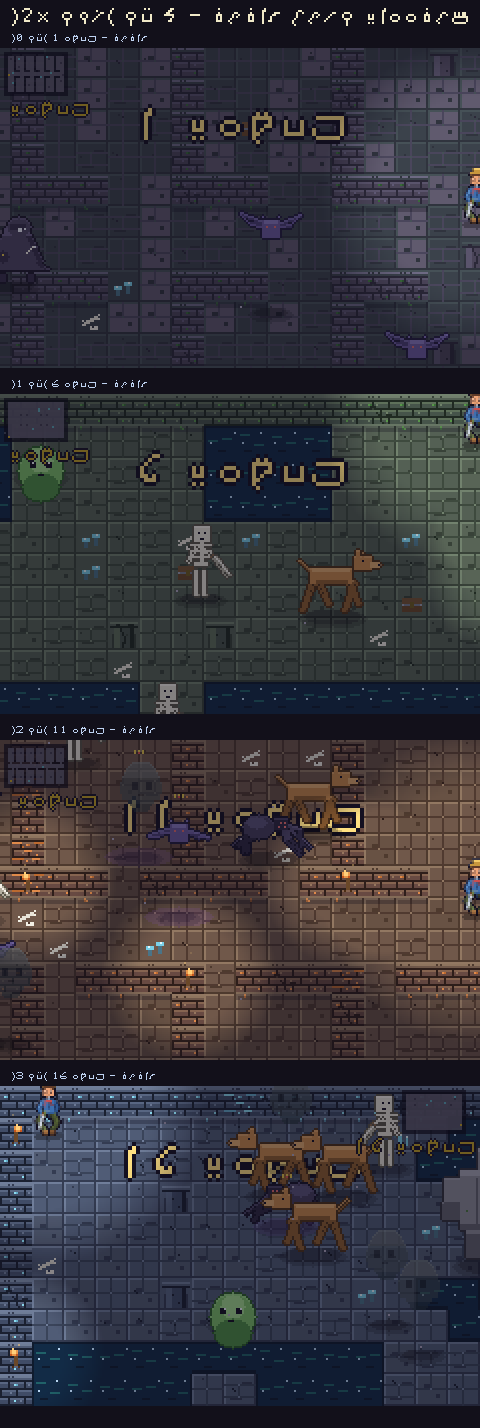
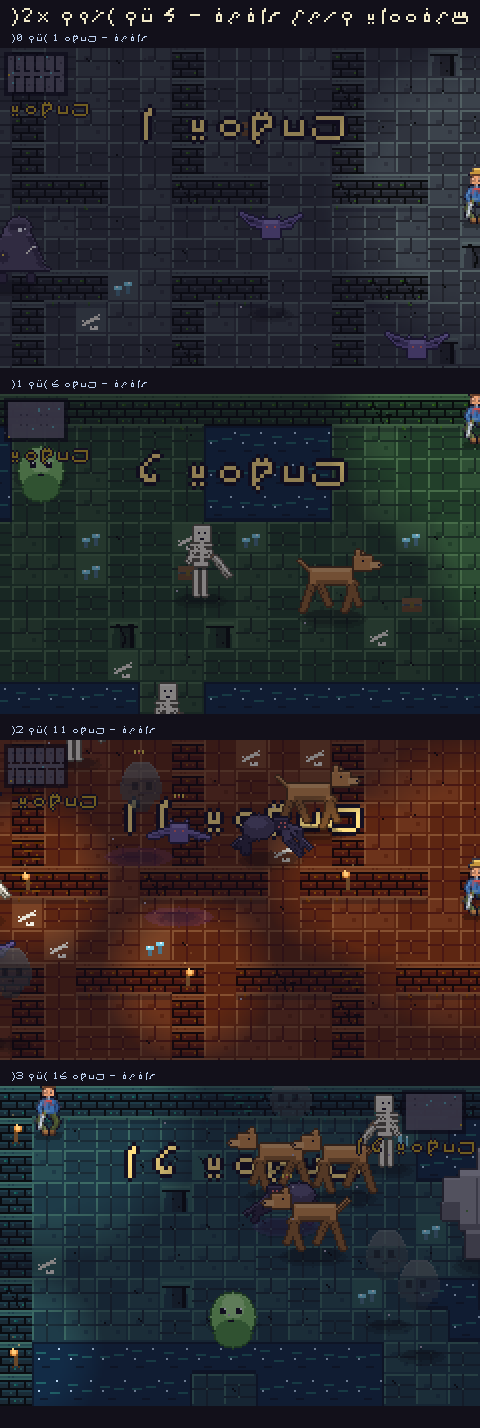
art(S1.4): dungeon themes on ramps — ΔL نما/کلاهک ۲۰ (۴/۴ تم)، M5 دانجن 94.5%

diff --git a/game.html b/game.html
@@ -827,13 +827,22 @@ const __m_art_ground = (() => {
 const KIND_ID = { grass: 0, soil: 1, path: 2, hedge: 3, water: 4, fence: 5, dfloor: 6, wall: 7, stairs: 8, gateL: 9, gateR: 10, pillar: 11, decor: 12, bush: 13, fencePost: 14 };
 const _gnum = new Array(15 * 32 * 4).fill(null); // ۴ تم دانجن (ن۳۲)
 
-// تم رنگی دانجن (ن۳۲): هر ۵ طبقه عوض میشود — تم ۰ = رنگهای اصلی (پاریتی کامل)
-const DP0 = { brick: E.brick, brickHi: E.brickHi, brickOut: E.brickOut, stone: E.stone, stoneHi: E.stoneHi, stoneSh: E.stoneSh, warm: [96, 90, 110, 255], mortar: [74, 70, 92, 255], cap: [110, 106, 132, 255], moss: [58, 106, 58, 255], mossD: [46, 86, 48, 255], stairs: E.stairs, stairsSh: E.stairsSh, glint: [96, 90, 118, 255] };
-const DTHEME = [DP0,
-  { brick: [70, 84, 74, 255], brickHi: [94, 112, 90, 255], brickOut: [32, 42, 34, 255], stone: [84, 96, 84, 255], stoneHi: [114, 130, 110, 255], stoneSh: [56, 66, 56, 255], warm: [88, 100, 86, 255], mortar: [62, 74, 62, 255], cap: [112, 126, 108, 255], moss: [88, 150, 74, 255], mossD: [58, 110, 56, 255], stairs: [96, 106, 92, 255], stairsSh: [64, 74, 62, 255], glint: [112, 130, 106, 255] }, // خزه
-  { brick: [104, 74, 66, 255], brickHi: [134, 100, 80, 255], brickOut: [46, 30, 26, 255], stone: [112, 88, 74, 255], stoneHi: [146, 120, 98, 255], stoneSh: [78, 58, 46, 255], warm: [104, 82, 68, 255], mortar: [80, 58, 48, 255], cap: [142, 116, 94, 255], moss: [224, 138, 74, 255], mossD: [188, 106, 48, 255], stairs: [128, 100, 84, 255], stairsSh: [86, 64, 52, 255], glint: [150, 118, 94, 255] }, // گدازه
-  { brick: [64, 76, 102, 255], brickHi: [88, 102, 130, 255], brickOut: [26, 32, 48, 255], stone: [80, 92, 118, 255], stoneHi: [112, 126, 154, 255], stoneSh: [52, 60, 82, 255], warm: [82, 92, 114,  255], mortar: [58, 68, 90, 255], cap: [110, 124, 150, 255], moss: [140, 220, 240, 255], mossD: [100, 170, 200, 255], stairs: [100, 112, 138, 255], stairsSh: [66, 76, 100, 255], glint: [106, 120, 148, 255] }, // یخ
-];
+// تم رنگی دانجن (ن۳۲ → S1.4): هر تم یک رمپ سنگ + رمپِ هویتِ خزه/گدازه/یخ
+// قانون کنتراست S1.4 (اندازهگیریشده): L کف ≈ ۵۲/۶۵ · نمای دیوار (brick) = ۳۸ → ΔL ۲۰ ✓ · کلاهک (stone) = ۷۸ → ΔL ۲۰ ✓
+// کلیدهای قدیمی DPAL حفظ شدهاند (brick/brickHi/brickOut/stone/stoneHi/stoneSh/warm/mortar/cap/moss/mossD/stairs/stairsSh/glint) + تازه: floorA/floorB
+const STONE_THEMES = ['stoneCool', 'stoneMoss', 'stoneForge', 'stoneIce'];   // تم ۰..۳
+const MOSS_THEMES = ['leaf', 'leaf', 'fire', 'magicCyan'];                  // هویتِ خزه/گدازه/یخ
+const DTHEME = STONE_THEMES.map((X, t) => {
+  const M = MOSS_THEMES[t];
+  return {
+    brick: rp(X, 2), brickHi: rp(X, 3), brickOut: rp(X, 0), glint: rp(X, 4),      // بدنهی دیوار (تیره) + جلای آجر
+    stone: rp(X, 5), stoneHi: rp(X, 6), stoneSh: rp(X, 3),                        // سنگِ روشن (کلاهک/ستون/دروازه/پله)
+    cap: rp(X, 4), mortar: rp(X, 2),                                              // خطِ کلاهک + درزهای کف
+    floorA: rp(X, 3), floorB: rp(X, 4), warm: rp(X, 4),                           // سنگفرش دوتُن کف
+    stairs: rp(X, 5), stairsSh: rp(X, 3),
+    moss: rp(M, 5), mossD: rp(M, 3),                                              // خزه/گدازه/یخ — هویت تم
+  };
+});
 const DPAL = (t) => DTHEME[t] || DP0;
 
 function groundSprite(kind, variant = 0, wet = false, waterFrame = 0, theme = 0) {
@@ -906,7 +915,7 @@ function groundSprite(kind, variant = 0, wet = false, waterFrame = 0, theme = 0)
       r.rect(6, 1, 4, 1, E.woodHi); r.rect(6, 13, 4, 1, E.woodSh);
     } else if (kind === 'dfloor') {
       // سنگفرش با دو تُن متناوب + درز تیره + جزئیات
-      const warm = variant % 2 ? P.warm : P.stone;
+      const warm = variant % 2 ? P.floorB : P.floorA;
       r.rect(0, 0, 16, 16, warm);
       r.rect(0, 0, 16, 1, P.stoneHi);
       r.rect(0, 0, 1, 16, P.stoneHi);
@@ -1603,8 +1612,9 @@ const __m_art_dungeon_props = (() => {
 // ذرات غبار معلق در هوا — همه بدون حالت (تصادفیِ قطعی بر اساس زمان)
 
 
+
 // مشعل: شعلهی سهلایهی نرم (سینوسی، نه موج مربعی) + جرقههای بالارونده
-const FLAME_D = [198, 84, 28, 255]; // لبهی تیرهی شعله
+const FLAME_D = rp('fire', 6).slice(); FLAME_D[3] = 255; // لبهی تیرهی شعله (رمپ آتش)
 function drawTorches(r, D, cx, cy, time) {
   for (const t of D.torches) {
     const sx = t.x * TILE - cx, sy = t.y * TILE - cy;
@@ -1630,7 +1640,7 @@ function drawTorches(r, D, cx, cy, time) {
 }
 
 // صندوق گنج: بند فلزی + قفل طلایی — استاتیک (ن۳۸: هاله/توینکل حذف)
-const IRON = [118, 124, 142, 255], IRON_HI = [158, 164, 182, 255];
+const IRON = rp('metal', 4).slice(); IRON[3] = 255; const IRON_HI = rp('metal', 6).slice(); IRON_HI[3] = 255;
 const _spC = [0, 0, 0, 0]; // اسکرچ جرقهی مشعل
 function drawChests(r, D, cx, cy, time) {
   for (const c of D.chests) {
@@ -1655,15 +1665,15 @@ function drawDrops(r, D, cx, cy) {
       const c = seedCol(d.ty);
       r.rect(px2 - 1, py2 - 1, 3, 3, [c[0], c[1], c[2], 255]);
       r.px(px2 - 1, py2 - 1, [Math.min(255, c[0] + 40), Math.min(255, c[1] + 40), Math.min(255, c[2] + 40), 255]);
-      r.px(px2, py2 - 3, [110, 180, 100, 255]); r.px(px2 + 1, py2 - 4, [140, 210, 120, 255]);
+      r.px(px2, py2 - 3, rp('leaf', 5)); r.px(px2 + 1, py2 - 4, rp('leaf', 6));
     } else if (d.kind === 'coin') { // کیسهی سکهی کوچک
-      r.rect(px2 - 2, py2 - 2, 5, 4, [170, 130, 60, 255]);
-      r.rect(px2 - 2, py2 - 3, 5, 1, [120, 90, 40, 255]);
-      r.px(px2 - 1, py2 - 1, [255, 224, 130, 255]); r.px(px2 + 1, py2, [255, 224, 130, 255]);
+      r.rect(px2 - 2, py2 - 2, 5, 4, rp('gold', 4));
+      r.rect(px2 - 2, py2 - 3, 5, 1, rp('soil', 3));
+      r.px(px2 - 1, py2 - 1, rp('gold', 6)); r.px(px2 + 1, py2, rp('gold', 6));
     } else if (d.kind === 'item') { // جعبهی درخشان با رنگ تیتر
       const t = ITEMS[d.id] ? ITEMS[d.id].tier : 1, tc = tierCol(t);
       const glow = 120 + 60 * Math.round(Math.sin(d.t * 4) + 1);
-      r.rect(px2 - 3, py2 - 3, 7, 6, [60, 50, 80, 255]);
+      r.rect(px2 - 3, py2 - 3, 7, 6, rp('stoneCool', 4));
       r.rect(px2 - 3, py2 - 3, 7, 1, [tc[0], tc[1], tc[2], 255]);
       r.rect(px2 - 3, py2 + 2, 7, 1, [tc[0], tc[1], tc[2], 255]);
       r.rect(px2 - 3, py2 - 3, 1, 6, [tc[0], tc[1], tc[2], 255]);
@@ -1674,27 +1684,27 @@ function drawDrops(r, D, cx, cy) {
       r.rect(px2 - 2, py2 - 2, 2, 2, E.heart); r.rect(px2 + 1, py2 - 2, 2, 2, E.heart);
       r.rect(px2 - 2, py2, 6, 2, E.heart); r.rect(px2 - 1, py2 + 2, 4, 1, E.heart);
       r.px(px2, py2 + 3, E.heart);
-      r.px(px2 - 1, py2 - 2, [255, 190, 205, 255]); // براقیت
+      r.px(px2 - 1, py2 - 2, [242, 239, 228, 255]); // براقیت (سفید گرم — رنگ ویژهی پالت)
     } else { // گوهر لوزی با وجهها
-      r.px(px2, py2 - 3, [230, 250, 255, 255]);
+      r.px(px2, py2 - 3, rp('magicCyan', 6));
       r.rect(px2 - 1, py2 - 2, 3, 1, E.essence); r.rect(px2 - 2, py2 - 1, 5, 1, E.essence);
       r.rect(px2 - 2, py2, 5, 1, E.essenceSh); r.rect(px2 - 1, py2 + 1, 3, 1, E.essenceSh);
       r.px(px2, py2 + 2, E.essenceSh);
-      r.px(px2 - 1, py2 - 1, [230, 250, 255, 255]); r.px(px2 + 1, py2, [170, 220, 240, 255]);
+      r.px(px2 - 1, py2 - 1, rp('magicCyan', 6)); r.px(px2 + 1, py2, rp('magicCyan', 5));
     }
   }
 }
 
 // محراب باستانی: سکوی سنگی + گوی جادویی نفسکش (بعد از استفاده خاموش)
-const _orbC = [140, 225, 255, 0], _orbD = [90, 170, 210, 0];
+const _orbC = [...rp('magicCyan', 6).slice(0, 3), 0], _orbD = [...rp('magicCyan', 4).slice(0, 3), 0];
 function drawShrines(r, D, cx, cy, time) {
   const sh = D.shrine;
   if (!sh) return;
   const sx = Math.round(sh.x - cx), sy = Math.round(sh.y - cy);
   if (sx < -24 || sy < -24 || sx > r.w + 8 || sy > r.h + 8) return;
-  r.rect(sx - 5, sy + 2, 10, 3, [74, 70, 92, 255]); // سکو
-  r.rect(sx - 5, sy + 2, 10, 1, [104, 100, 124, 255]); // لبهی روشن
-  r.rect(sx - 3, sy - 1, 6, 3, [58, 54, 74, 255]); // پایهی گوی
+  r.rect(sx - 5, sy + 2, 10, 3, rp('stoneCool', 4)); // سکو
+  r.rect(sx - 5, sy + 2, 10, 1, rp('stoneCool', 6)); // لبهی روشن
+  r.rect(sx - 3, sy - 1, 6, 3, rp('stoneCool', 3)); // پایهی گوی
   if (!sh.used) {
     const b = Math.round((Math.sin(time * 2.4) + 1)); // 0..2 — نفسکش کوانتیزه
     _orbC[3] = 190 + 25 * b;
@@ -1707,7 +1717,7 @@ function drawShrines(r, D, cx, cy, time) {
     r.px(sx + Math.round(Math.cos(oa) * 5), sy - 3 + Math.round(Math.sin(oa) * 3), _orbC);
     r.px(sx + Math.round(Math.cos(oa + 3.1) * 5), sy - 3 + Math.round(Math.sin(oa + 3.1) * 3), _orbD);
   } else {
-    r.rect(sx - 1, sy - 4, 2, 2, [90, 88, 106, 255]); // گوی خاموش
+    r.rect(sx - 1, sy - 4, 2, 2, rp('stoneCool', 5)); // گوی خاموش
   }
 }
 

diff --git a/js/art/dungeon_props.js b/js/art/dungeon_props.js
@@ -1,9 +1,10 @@
 // art/dungeon_props.js — اجزای صحنهی دانجن: مشعل (با جرقه)، صندوق گنج، قطرههای گوهر/قلب،
 // ذرات غبار معلق در هوا — همه بدون حالت (تصادفیِ قطعی بر اساس زمان)
 import { E, TILE } from './palette_env.js';
+import { rp } from './ramps.js'; // S1.4: رنگ پراپها از رمپ (مشعل/صندوق/گوهر/محراب)
 
 // مشعل: شعلهی سهلایهی نرم (سینوسی، نه موج مربعی) + جرقههای بالارونده
-const FLAME_D = [198, 84, 28, 255]; // لبهی تیرهی شعله
+const FLAME_D = rp('fire', 6).slice(); FLAME_D[3] = 255; // لبهی تیرهی شعله (رمپ آتش)
 export function drawTorches(r, D, cx, cy, time) {
   for (const t of D.torches) {
     const sx = t.x * TILE - cx, sy = t.y * TILE - cy;
@@ -29,7 +30,7 @@ export function drawTorches(r, D, cx, cy, time) {
 }
 
 // صندوق گنج: بند فلزی + قفل طلایی — استاتیک (ن۳۸: هاله/توینکل حذف)
-const IRON = [118, 124, 142, 255], IRON_HI = [158, 164, 182, 255];
+const IRON = rp('metal', 4).slice(); IRON[3] = 255; const IRON_HI = rp('metal', 6).slice(); IRON_HI[3] = 255;
 const _spC = [0, 0, 0, 0]; // اسکرچ جرقهی مشعل
 export function drawChests(r, D, cx, cy, time) {
   for (const c of D.chests) {
@@ -54,15 +55,15 @@ export function drawDrops(r, D, cx, cy) {
       const c = seedCol(d.ty);
       r.rect(px2 - 1, py2 - 1, 3, 3, [c[0], c[1], c[2], 255]);
       r.px(px2 - 1, py2 - 1, [Math.min(255, c[0] + 40), Math.min(255, c[1] + 40), Math.min(255, c[2] + 40), 255]);
-      r.px(px2, py2 - 3, [110, 180, 100, 255]); r.px(px2 + 1, py2 - 4, [140, 210, 120, 255]);
+      r.px(px2, py2 - 3, rp('leaf', 5)); r.px(px2 + 1, py2 - 4, rp('leaf', 6));
     } else if (d.kind === 'coin') { // کیسهی سکهی کوچک
-      r.rect(px2 - 2, py2 - 2, 5, 4, [170, 130, 60, 255]);
-      r.rect(px2 - 2, py2 - 3, 5, 1, [120, 90, 40, 255]);
-      r.px(px2 - 1, py2 - 1, [255, 224, 130, 255]); r.px(px2 + 1, py2, [255, 224, 130, 255]);
+      r.rect(px2 - 2, py2 - 2, 5, 4, rp('gold', 4));
+      r.rect(px2 - 2, py2 - 3, 5, 1, rp('soil', 3));
+      r.px(px2 - 1, py2 - 1, rp('gold', 6)); r.px(px2 + 1, py2, rp('gold', 6));
     } else if (d.kind === 'item') { // جعبهی درخشان با رنگ تیتر
       const t = ITEMS[d.id] ? ITEMS[d.id].tier : 1, tc = tierCol(t);
       const glow = 120 + 60 * Math.round(Math.sin(d.t * 4) + 1);
-      r.rect(px2 - 3, py2 - 3, 7, 6, [60, 50, 80, 255]);
+      r.rect(px2 - 3, py2 - 3, 7, 6, rp('stoneCool', 4));
       r.rect(px2 - 3, py2 - 3, 7, 1, [tc[0], tc[1], tc[2], 255]);
       r.rect(px2 - 3, py2 + 2, 7, 1, [tc[0], tc[1], tc[2], 255]);
       r.rect(px2 - 3, py2 - 3, 1, 6, [tc[0], tc[1], tc[2], 255]);
@@ -73,27 +74,27 @@ export function drawDrops(r, D, cx, cy) {
       r.rect(px2 - 2, py2 - 2, 2, 2, E.heart); r.rect(px2 + 1, py2 - 2, 2, 2, E.heart);
       r.rect(px2 - 2, py2, 6, 2, E.heart); r.rect(px2 - 1, py2 + 2, 4, 1, E.heart);
       r.px(px2, py2 + 3, E.heart);
-      r.px(px2 - 1, py2 - 2, [255, 190, 205, 255]); // براقیت
+      r.px(px2 - 1, py2 - 2, [242, 239, 228, 255]); // براقیت (سفید گرم — رنگ ویژهی پالت)
     } else { // گوهر لوزی با وجهها
-      r.px(px2, py2 - 3, [230, 250, 255, 255]);
+      r.px(px2, py2 - 3, rp('magicCyan', 6));
       r.rect(px2 - 1, py2 - 2, 3, 1, E.essence); r.rect(px2 - 2, py2 - 1, 5, 1, E.essence);
       r.rect(px2 - 2, py2, 5, 1, E.essenceSh); r.rect(px2 - 1, py2 + 1, 3, 1, E.essenceSh);
       r.px(px2, py2 + 2, E.essenceSh);
-      r.px(px2 - 1, py2 - 1, [230, 250, 255, 255]); r.px(px2 + 1, py2, [170, 220, 240, 255]);
+      r.px(px2 - 1, py2 - 1, rp('magicCyan', 6)); r.px(px2 + 1, py2, rp('magicCyan', 5));
     }
   }
 }
 
 // محراب باستانی: سکوی سنگی + گوی جادویی نفسکش (بعد از استفاده خاموش)
-const _orbC = [140, 225, 255, 0], _orbD = [90, 170, 210, 0];
+const _orbC = [...rp('magicCyan', 6).slice(0, 3), 0], _orbD = [...rp('magicCyan', 4).slice(0, 3), 0];
 export function drawShrines(r, D, cx, cy, time) {
   const sh = D.shrine;
   if (!sh) return;
   const sx = Math.round(sh.x - cx), sy = Math.round(sh.y - cy);
   if (sx < -24 || sy < -24 || sx > r.w + 8 || sy > r.h + 8) return;
-  r.rect(sx - 5, sy + 2, 10, 3, [74, 70, 92, 255]); // سکو
-  r.rect(sx - 5, sy + 2, 10, 1, [104, 100, 124, 255]); // لبهی روشن
-  r.rect(sx - 3, sy - 1, 6, 3, [58, 54, 74, 255]); // پایهی گوی
+  r.rect(sx - 5, sy + 2, 10, 3, rp('stoneCool', 4)); // سکو
+  r.rect(sx - 5, sy + 2, 10, 1, rp('stoneCool', 6)); // لبهی روشن
+  r.rect(sx - 3, sy - 1, 6, 3, rp('stoneCool', 3)); // پایهی گوی
   if (!sh.used) {
     const b = Math.round((Math.sin(time * 2.4) + 1)); // 0..2 — نفسکش کوانتیزه
     _orbC[3] = 190 + 25 * b;
@@ -106,6 +107,6 @@ export function drawShrines(r, D, cx, cy, time) {
     r.px(sx + Math.round(Math.cos(oa) * 5), sy - 3 + Math.round(Math.sin(oa) * 3), _orbC);
     r.px(sx + Math.round(Math.cos(oa + 3.1) * 5), sy - 3 + Math.round(Math.sin(oa + 3.1) * 3), _orbD);
   } else {
-    r.rect(sx - 1, sy - 4, 2, 2, [90, 88, 106, 255]); // گوی خاموش
+    r.rect(sx - 1, sy - 4, 2, 2, rp('stoneCool', 5)); // گوی خاموش
   }
 }

diff --git a/js/art/ground.js b/js/art/ground.js
@@ -6,13 +6,22 @@ import { rp } from './ramps.js';
 const KIND_ID = { grass: 0, soil: 1, path: 2, hedge: 3, water: 4, fence: 5, dfloor: 6, wall: 7, stairs: 8, gateL: 9, gateR: 10, pillar: 11, decor: 12, bush: 13, fencePost: 14 };
 const _gnum = new Array(15 * 32 * 4).fill(null); // ۴ تم دانجن (ن۳۲)
 
-// تم رنگی دانجن (ن۳۲): هر ۵ طبقه عوض میشود — تم ۰ = رنگهای اصلی (پاریتی کامل)
-const DP0 = { brick: E.brick, brickHi: E.brickHi, brickOut: E.brickOut, stone: E.stone, stoneHi: E.stoneHi, stoneSh: E.stoneSh, warm: [96, 90, 110, 255], mortar: [74, 70, 92, 255], cap: [110, 106, 132, 255], moss: [58, 106, 58, 255], mossD: [46, 86, 48, 255], stairs: E.stairs, stairsSh: E.stairsSh, glint: [96, 90, 118, 255] };
-const DTHEME = [DP0,
-  { brick: [70, 84, 74, 255], brickHi: [94, 112, 90, 255], brickOut: [32, 42, 34, 255], stone: [84, 96, 84, 255], stoneHi: [114, 130, 110, 255], stoneSh: [56, 66, 56, 255], warm: [88, 100, 86, 255], mortar: [62, 74, 62, 255], cap: [112, 126, 108, 255], moss: [88, 150, 74, 255], mossD: [58, 110, 56, 255], stairs: [96, 106, 92, 255], stairsSh: [64, 74, 62, 255], glint: [112, 130, 106, 255] }, // خزه
-  { brick: [104, 74, 66, 255], brickHi: [134, 100, 80, 255], brickOut: [46, 30, 26, 255], stone: [112, 88, 74, 255], stoneHi: [146, 120, 98, 255], stoneSh: [78, 58, 46, 255], warm: [104, 82, 68, 255], mortar: [80, 58, 48, 255], cap: [142, 116, 94, 255], moss: [224, 138, 74, 255], mossD: [188, 106, 48, 255], stairs: [128, 100, 84, 255], stairsSh: [86, 64, 52, 255], glint: [150, 118, 94, 255] }, // گدازه
-  { brick: [64, 76, 102, 255], brickHi: [88, 102, 130, 255], brickOut: [26, 32, 48, 255], stone: [80, 92, 118, 255], stoneHi: [112, 126, 154, 255], stoneSh: [52, 60, 82, 255], warm: [82, 92, 114,  255], mortar: [58, 68, 90, 255], cap: [110, 124, 150, 255], moss: [140, 220, 240, 255], mossD: [100, 170, 200, 255], stairs: [100, 112, 138, 255], stairsSh: [66, 76, 100, 255], glint: [106, 120, 148, 255] }, // یخ
-];
+// تم رنگی دانجن (ن۳۲ → S1.4): هر تم یک رمپ سنگ + رمپِ هویتِ خزه/گدازه/یخ
+// قانون کنتراست S1.4 (اندازهگیریشده): L کف ≈ ۵۲/۶۵ · نمای دیوار (brick) = ۳۸ → ΔL ۲۰ ✓ · کلاهک (stone) = ۷۸ → ΔL ۲۰ ✓
+// کلیدهای قدیمی DPAL حفظ شدهاند (brick/brickHi/brickOut/stone/stoneHi/stoneSh/warm/mortar/cap/moss/mossD/stairs/stairsSh/glint) + تازه: floorA/floorB
+const STONE_THEMES = ['stoneCool', 'stoneMoss', 'stoneForge', 'stoneIce'];   // تم ۰..۳
+const MOSS_THEMES = ['leaf', 'leaf', 'fire', 'magicCyan'];                  // هویتِ خزه/گدازه/یخ
+const DTHEME = STONE_THEMES.map((X, t) => {
+  const M = MOSS_THEMES[t];
+  return {
+    brick: rp(X, 2), brickHi: rp(X, 3), brickOut: rp(X, 0), glint: rp(X, 4),      // بدنهی دیوار (تیره) + جلای آجر
+    stone: rp(X, 5), stoneHi: rp(X, 6), stoneSh: rp(X, 3),                        // سنگِ روشن (کلاهک/ستون/دروازه/پله)
+    cap: rp(X, 4), mortar: rp(X, 2),                                              // خطِ کلاهک + درزهای کف
+    floorA: rp(X, 3), floorB: rp(X, 4), warm: rp(X, 4),                           // سنگفرش دوتُن کف
+    stairs: rp(X, 5), stairsSh: rp(X, 3),
+    moss: rp(M, 5), mossD: rp(M, 3),                                              // خزه/گدازه/یخ — هویت تم
+  };
+});
 export const DPAL = (t) => DTHEME[t] || DP0;
 
 export function groundSprite(kind, variant = 0, wet = false, waterFrame = 0, theme = 0) {
@@ -85,7 +94,7 @@ export function groundSprite(kind, variant = 0, wet = false, waterFrame = 0, the
       r.rect(6, 1, 4, 1, E.woodHi); r.rect(6, 13, 4, 1, E.woodSh);
     } else if (kind === 'dfloor') {
       // سنگفرش با دو تُن متناوب + درز تیره + جزئیات
-      const warm = variant % 2 ? P.warm : P.stone;
+      const warm = variant % 2 ? P.floorB : P.floorA;
       r.rect(0, 0, 16, 16, warm);
       r.rect(0, 0, 16, 1, P.stoneHi);
       r.rect(0, 0, 1, 16, P.stoneHi);

diff --git a/MEMORY.md b/MEMORY.md
@@ -1,7 +1,7 @@
 # 🧠 MEMORY — بازی «مزرعه و دانجن»
 
 > حافظهی عامل: **نقشهی فایلها (دقیق/per-file)** + وضعیت خطی + اعداد + درسها + قواعد کاربر.
-> آخرین بهروزرسانی: 2026-10-08 (نوبت ۵۶ — S1.3 ✅ تایل مزرعه ← رمپ؛ نشست بعدی S1.4).
+> آخرین بهروزرسانی: 2026-10-08 (نوبت ۵۷ — S1.4 ✅ تمهای دانجن ← رمپ؛ نشست بعدی S1.5a).
 > **رودمپ فعال: `ROADMAP.md` (۵۹ نشست، ۹ فاز) — اول §«🗺 رودمپ آرت v2» همین فایل را بخوان.**
 
 ## 🚨 اول هر نوبت
@@ -45,12 +45,13 @@ farm-dungeon/   (کل ورکاسپیس ۲٫۵MB — بیرون فقط uploads
 ```
 
 ## ✅ وضعیت (هر نوبت یک خط — جزئیات در شیت/اسکریپت همان نوبت)
+- **ن۵۷: S1.4 ✅ دانجن ۴ تم ← رمپ** — DTHEME از `stoneCool/stoneMoss/stoneForge/stoneIce` + هویت `leaf/leaf/fire/magicCyan`؛ کلیدهای DPAL حفظ + **`floorA/floorB` تازه** (کف دوتُن ۵۲/۶۵؛ ریشهی باگ: کف و کلاهک هر دو P.stone بودند → ΔL≈۲)؛ **قوانین ΔL ۴/۴ تم ✓**: نما ۳۸↔کف ۵۸ = ۲۰ · کلاهک ۷۸ ↔ کف = ۲۰ · stoneHi=۹۲ لبه؛ تایلهای هر تم یکتا ۱۹–۲۱ (M5 ۹۸٫۷٪)؛ M5 دانجن صحنه ۷۰٫۳→۹۴٫۵٪ (تم گدازه/یخ ۷۶–۸۴ چون تورچ/گوهر روشن)؛ ۱۳ رنگ هاردکد دungeon_props → رمپ؛ **کف ۸۸→۵۸ تیرهتر شد → M1 موقت ۹٫۶→۶٫۶ (bat=۱۸٫۴)** — بازگشت طبق رودمپ در S1.5a/b؛ run_all سبز؛ shیت/ref بازتولید · نشست بعدی: S1.5a
 - **ن۵۶: S1.3 ✅ تایلهای مزرعه ← رمپ** — `palette_env.js`: کلیدهای E حفظ، ۵۱ کلید از EMAP رمپمحور (چمن[4]/خاک[3] عمداً همپله نه) + سفید گرم ویژه؛ `ground.js`: ۷ هاردکد دروازه → ink/clothPurple/magicCyan[6]؛ `farm_decor.js`: سنگریزه→dust[6]/[3]، اسپارکل طلایی→gold[6]; **ΔL: چمن↔خاک ۱۳٫۴ ✓ · خاک↔راه ۱۳٫۱ ✓ · آب↔چمن ۲۷٫۲ ✓ · محصول↔خاک ۲۶٫۱–۲۶٫۳ (۶/۶) ✓** (سنجهی محصول = رنگ هویتی میوه vs خاک)؛ **M5: مزرعه ۱۰٫۵→۹۶٪ ✓ · محصولات ۲٫۲→۱۰۰٪ ✓ · دانجن ۴۵٫۲→۷۰٫۳ (بونوس E مشترک)**؛ رنگ یکتای ۴بیتی: زمین ۱۶→۱۵، صحنه ۱۴۸→۱۴۷ (سقف=قهرمان ۸۳ رنگ → S1.6 ≤۲۸؛ پس شرط ≤۷۰ صحنه در S1.6 کامل میشود)؛ run_all سبز (۱۱+۱۵+۲۷)؛ شیت/ref بازتولید شد · نشست بعدی: S1.4 (تمهای دانجن)
 - **ن۵۵: S1.2 ✅ پالت مستر + M5** — `art/palette_master.js`: ۹۶ رنگ (سقف ✓) ساخت قطعی در بارگذاری (FPS+کش افزایشی → Lloyd×۲۴ → refine؛ ۲۶ms)؛ پوشش **همهی ۱۷۹ رنگ منبع در ΔE≤۵٫۸۰<۶**؛ ۴ رنگ ویژه (سفید گرم/سیاه جوهری/قرمز خون/سبز افکت) مرکز دقیق شدند؛ API `inPM/nearestPM/PALETTE_MASTER/PM_SIZE/PM_COVER`؛ ثبت در BASE؛ M5 در audit فعال (گزارش ۵ گروه + ۵ رنگ پرتکرار خارج)؛ **پایهی M5 = ۲٫۲٪** (مزرعه ۱۰٫۵ · دانجن ۴۵٫۲ · قهرمان ۳۰٫۱ · موب ۲۹ · محصول ۲٫۲) — امتیاز سنجهمحور پایه با M5 واقعی: **۰٫۹/۱۰**؛ baseline.json بازتولید شد · نشست بعدی: S1.3
 - **ن۵۴: S1.1 ✅ `art/ramps.js`** — منبع واحد رمپها (فقط تعریف؛ رندر دستنخورده): `makeRamp({h,s,l0,l1,hShadow,hLight,sPeak})` = ۷ پله L ۱۲→۹۲ با هیو-شیفت سایه→بنفش(۲۶۸°)/نور→زرد(۵۲°)، اشباع اوجدار و افتِ سایه؛ ۲۵ رمپ پایه + ۱۴ همنام (bark/wood/hair/furBrown→soil · path→dust · clothCream/furWhite→bone · furGrey→metal · magicPurple→clothPurple · brick0..3/brick→stone*) = **۳۹ نام**؛ `rp/rpHex/rampL/RAMP_NAMES/RAMP_BASE_NAMES`؛ `sheet.mjs ramps` → `shots/sheet_ramps.png` (شیت ۳۹ رمپ برای بازبینی)؛ سنجهها: ΔL همه ∈ [۷،۱۷] صعودی ✓ · یکتای خام ۱۷۴ / **کوانتیزه ۴بیتی ۱۰۹ ≤ ۱۱۰** ✓ · فایل ۶۹ خط؛ ثبت در BASE (بعد از raster)؛ بوت ۱۱/۱۱ · run_all سبز · نشست بعدی: S1.2
 - **ن۵۳: S0.4 ✅ شیتساز + صحنههای مرجع + بنچ** — `tools/sheet.mjs <tiles|mobs|farm|dungeon|all>` (زوم ×۲/۴ + برچسب font2 → `shots/sheet_*.png`) · ۷ صحنهی مرجع قطعی `ref_farm_{day,rain,night}.png` + `ref_dungeon_f{01,06,11,16}.png` (مالکیت ref از art_audit به sheet منتقل شد) · `tools/bench.mjs` گسترش: میانهی ۳ اجرا → **`tools/baseline.json`: مزرعه ۰٫۵۹ms · دانجن ۱٫۲۰ms** (پایه ۰٫۶۰/~۱٫۳ ✓ M11 پاس) · `tiles43_sheet.mjs`+`mobs44_sheet.mjs` حذف شدند · run_all سبز · نشست بعدی: **S1.1** (`art/ramps.js` — تنها ماژول جدید P1)
 - **ن۵۲: S0.3 ✅ art_audit پایدار** — `tools/art_audit.mjs` (M1–M10 عددی + شیت + JSON؛ قطعی=random استاب؛ ۰٫۳ث) + `shots/audit_baseline.json` + `shots/art_audit.png` + ۴ صحنهی مرجع `ref_*.png`؛ **اسکرینشاتهای قدیمی (۶ فایل) بهخواست کاربر حذف شدند**؛ CI: `.github/workflows/ci.yml` (هر push: run_all + art_audit + آپلود آرتیفکت)؛ پایهی سنجهمحور **۲/۱۱ = ۱٫۸/۱۰** — M1 ΔL=۹٫۶ (bat بدترین) · M2=۲۲ · M3 قهرمان ۸۳ رنگ/موب ۵–۹ · M4=۱ باند · M5=۹۷٫۴٪ · M6=۰٫۵۹/۰٫۵۷ · M7=۴۶٫۲٪/۰٫۷٪ · M8=۰/۰ · M9 idle-min=۰٪ (golem یخزده)، حمله ۱۹٫۸/۱۹٫۱٪ · M10=۷–۱۳px×۴؛ همخوانی با ن۴۸: قهرمان ۸۳↔۸۲، موب ۵–۹↔۵–۹، محصول ۷–۱۳↔۷–۱۳، حمله ۱۹٫۸/۱۹٫۱↔۱۵/۱۹، bat بدترین↔bat · نشست بعدی: S0.4
-- **ن۵۱: S0.1 ✅ + S0.2 ✅** — مخزن با توکن کلون شد، `farm-dungeon-roadmap.zip` آنزیپ و ساختار پروژه در ریشهی ریپو (`farm-dungeon/`) قرار گرفت؛ zip حذف؛ `secret_guard: clean`؛ پوش اول `3f61d4c` (local==remote)؛ تگ `art-baseline` لوکال+ریموت · **S0.2**: `tools/setup_tests.sh` + `tools/boot_check.mjs` (۱۰ سناریو jsdom) + `tools/run_all.sh` → `ALL GREEN` در ۲۲ث (boot ۱۰/۱۰ در ۱۹٬۲ث · render5 ۱۵/۱۵ · render6 ۲۷/۲۷) و **بیلد بایتبرابر با game.html موجود (Parity)** · نشست بعدی: S1.4 (تمهای دانجن ← رمپ)
+- **ن۵۱: S0.1 ✅ + S0.2 ✅** — مخزن با توکن کلون شد، `farm-dungeon-roadmap.zip` آنزیپ و ساختار پروژه در ریشهی ریپو (`farm-dungeon/`) قرار گرفت؛ zip حذف؛ `secret_guard: clean`؛ پوش اول `3f61d4c` (local==remote)؛ تگ `art-baseline` لوکال+ریموت · **S0.2**: `tools/setup_tests.sh` + `tools/boot_check.mjs` (۱۰ سناریو jsdom) + `tools/run_all.sh` → `ALL GREEN` در ۲۲ث (boot ۱۰/۱۰ در ۱۹٬۲ث · render5 ۱۵/۱۵ · render6 ۲۷/۲۷) و **بیلد بایتبرابر با game.html موجود (Parity)** · نشست بعدی: S1.5a (موبهای کلاسیک)
 - **ن۵۰: رودمپ آرت v2 تدوین شد** (۵۹ نشست/۹ فاز: P0 زیرساخت · P1 رنگ · P2 تایل مزرعه · P3 تایل دانجن · P4 نور · P5 جزئیات مزرعه · P6 موجودات · P7 UI · P8 پولیش) — کد بازی دستنخورده، فقط `.gitignore` + `tools/push.sh` + `tools/secret_guard.sh` + ROADMAP/roadmap اضافه شد · نشست بعدی: S0.3 · هدف امتیاز آرت ۵٫۵ → ≥ ۸٫۵ (Scoreboard در ROADMAP.md)
 - قابل بازی: game.html روی :8080 · نوبت جاری: **ن۴۸ آرت-ممیزی سنجهمحور ~۵٫۵/۱۰ سختگیرانه** — کمبودها: **P1 خوانایی** bat ΔL=۳ و فقط ۱۵px، bandit ΔL=۵، spider ۲۱، ghost ۱۰ (نیمهعمدی)، outline اسکلت/کماندار L~۸۶=حاشیه نه outline · **P2 سبک** پالت قهرمان ۸۲ رنگ↔موبها ۵-۹ (ژاکارد ۰٫۰۱۷)، outline غیریکدست (انحراف ۴۲)، اسکلت/کماندار ۲ باند سایه، صفر بافت/dither (فاصلهی اصلی با استاردیو) · **P3** محصول ۴ مرحله (استاردیو ۵) و رسیده ۷-۱۳px، حملهی اسکلت ۱۵٪/کماندار ۱۹٪ کمخوانا، idle hare/golem/boss ۱۱-۱۴٪ یخزده، اسکلت ۲٫۳t>قهرمان ۱٫۸t، گلیف ص/ض/ط/ظ ۸px در شبکهی ۷ · قوتها: خط لولهی منظم، انیمیشن ۴حالته، فونت ۹۵ گلیف، باس≠گولم، صحنه ۱۰۸-۱۷۰ رنگ · سنجهها: shots/art48_review.png (اسکریپت اندازهگیری /tmp/artaudit48.mjs — سنجهها: پالت کوانتیزه >>۴، خوشهی روشنایی ≥۸٪، ΔL در برابر کفِ L=۷۲، ژاکارد، diffRatio)
 - ن۴۹: **باگهای ظاهری + پولیش** — (۱) تایلهای fence/fencePost شفاف بودند (بدون چمن زیرشان → سیاهی/ردّ فریم قبل روی بوم) → چمن زیرشان در farm_render · (۲) خاکراه: تایلهای «نانمانند» جدا → تایل پر + حاشیهی دندانهای per-همسایه `drawPathEdge` (farm_decor) + سنگریزهی پراکنده · (۳) دروازهی ۲×۲ دو در روی هم بود → طاق یکپارچه (variant 0 سردر / 1 آستانه) · (۴) گندم رسیده شبیه «میز» → سه سنبلهی طلایی با ریشک · (۵) فونت font2: حروف کوچک لاتین «؟» میشدند (Floor→F????) → نگاشت به بزرگ؛ نیمفاصلهی U+200C «؟» رسم میشد → حذف؛ ارقام داخل جملهی فارسی برعکس بودند (۱۲۳→۳۲۱) → bidi ردیفهای LTR؛ alias آ/أ/ي/ك/٪/—/→ و گلیف ( ) = ·؛ ۳ شبیه «؟» بود → سهقوسی · بیلد+بوت jsdom صفر خطا · شفافیت: صفر پیکسل alpha=0 در مزرعه و ۵ طبقهی دانجن
@@ -68,7 +69,7 @@ farm-dungeon/   (کل ورکاسپیس ۲٫۵MB — بیرون فقط uploads
 - باگ باز: — (فهرست ن۴۸ = بهبود آرت، نه باگ) | داستان/NPC عمداً نیست
 
 ## 🗺 رودمپ آرت v2 (از ن۵۰)
-- **منبع حقیقت پیشرفت**: چکباکسهای `ROADMAP.md`؛ جزئیات/پذیرش هر نشست در `roadmap/P?.md`. **نشست بعدی: S1.4** (دانجن: ۴ تم ← رمپ).
+- **منبع حقیقت پیشرفت**: چکباکسهای `ROADMAP.md`؛ جزئیات/پذیرش هر نشست در `roadmap/P?.md`. **نشست بعدی: S1.5a** (۷ موب کلاسیک ← رمپ).
 - **ترتیب فازها**: P0 زیرساخت/اندازهگیری → P1 رنگ و رمپها (بزرگترین جهش) → P2 تایل مزرعه → P3 تایل دانجن → P4 نور/سایه → P5 جزئیات مزرعه → P6 موجودات → P7 UI/آیکون/فونت → P8 پولیش. ایستهای بازبینی کاربر 🛑: R1 (بعد P1)، R2 (بعد P3)، R3 (بعد P5)، R4 (پایان).
 - **پروتکل نشست** (کوتاه): MEMORY + فایل فاز را بخوان → اجرا (≤ ۱ ماژول جدید + ≤ ۳ فایل ویرایشی، هر ماژول ≤ ۲۸۰ خط، ≲ ۳۵ فراخوانی ابزار) → `node tools/build_single.mjs` + بوت jsdom + تستهای فاز + audit → `bash tools/push.sh "art(Sx.y): …"` → تیک چکباکسها (فایل فاز + ROADMAP) + یک خط در §وضعیت → **بایست**. بزرگ شد؟ WIP را push کن، زیرنشست `Sx.yb` بساز، ادامه نده.
 - **پروتکل گیت**: فقط `tools/push.sh` (secret_guard + commit + push با URL موقت؛ توکن در remote/فایل/لاگ نمیماند). تگ پایان فازها: `art-baseline`, `art-P1`, `art-P3`, `art-P5`, `art-v2`. هرگز `--force` مگر کاربر بگوید.

diff --git a/roadmap/P1.md b/roadmap/P1.md
@@ -35,14 +35,16 @@
 
 **نتیجه (ن۵۶):** کلیدهای `E` حفظ شدند؛ ۵۱ کلید از رمپ مقدار میگیرند (EMAP در palette_env؛ عمداً همپله نه — چمن[4]/خاک[3] برای ΔL). **ΔL: چمن↔خاک ۱۳٫۴ ✓ · خاک↔راه ۱۳٫۱ ✓ · آب↔چمن ۲۷٫۲ ✓ · میوهی رسیده↔خاک ۲۶٫۱–۲۶٫۳ (هر ۶ محصول) ✓** (تعریف سنجهی محصول: رنگ هویتیِ میوه vs خاک). **M5: مزرعه ۱۰٫۵→۹۶٪ ✓ · محصولات ۲٫۲→۱۰۰٪** (دانجن هم بونوس ۴۵٫۲→۷۰٫۳٪ چون E.stone/wood مشترک است؛ قهرمان ۳۰٫۱ و موب ۲۹ دستنخورده → ن۵/S1.5/S1.6). رنگهای هاردکد `ground.js` (دروازه: ink/clothPurple/magicCyan) و `farm_decor.js` (سنگریزه=dust، اسپارکل=gold[6]) → رمپ. **رنگهای یکتا (۴ بیت): لایهی زمین ۱۶→۱۵** (≤۷۰ ✓ در دامنهی این نشست)؛ صحنهی کامل ۱۴۸→۱۴۷ — سقف این عدد قهرمان ۸۳ رنگ است که در S1.6 ≤۲۸ میشود (و در S1.7 موب/سازهها)؛ پس معیار ≤۷۰ صحنه بهطور کامل در S1.6 محقق میشود. `run_all` سبز (۱۱+۱۵+۲۷) — قواعد FOAM/TINT رگرسیون دستنخورده.
 
-## S1.4 — دانجن: ۴ تم ← رمپ + کنتراست کف/دیوار ☐
+## S1.4 — دانجن: ۴ تم ← رمپ + کنتراست کف/دیوار ✅
 **بخوان:** `art/ground.js` (DTHEME/DPAL)، `art/dungeon_depth.js`، `art/dungeon_props.js`.
 **انجام:**
-- [ ] DTHEME[0..3] ← رمپهای `stoneCool/stoneMoss/stoneForge/stoneIce` + `brick(t)`؛ کلیدهای DPAL حفظ.
-- [ ] قانون: ΔL(نمای دیوار، کف) ≥ ۱۴؛ ΔL(کلاهک/رو دیوار، کف) ≥ ۱۸؛ هر تم رنگ هویتی (گدازه نارنجی گرم، یخ آبی سرد، خزه سبز).
-- [ ] رنگهای هاردکد در `dungeon_props.js` (مشعل/صندوق/محراب) → رمپ.
+- [x] DTHEME[0..3] ← رمپهای `stoneCool/stoneMoss/stoneForge/stoneIce` + `brick(t)`؛ کلیدهای DPAL حفظ.
+- [x] قانون: ΔL(نمای دیوار، کف) ≥ ۱۴؛ ΔL(کلاهک/رو دیوار، کف) ≥ ۱۸؛ هر تم رنگ هویتی (گدازه نارنجی گرم، یخ آبی سرد، خزه سبز).
+- [x] رنگهای هاردکد در `dungeon_props.js` (مشعل/صندوق/محراب) → رمپ.
 **پذیرش:** audit روی ۴ تم: ΔL(کف↔دیوار) مطابق قانون · رنگهای یکتای هر تم ≤ ۶۰ · بوت ۱۰/۱۰.
 **commit:** `art(S1.4): dungeon themes on ramps`
+
+**نتیجه (ن۵۷):** DTHEME از ۴ رمپ سنگ (stoneCool/stoneMoss/stoneForge/stoneIce) + رمپ هویت (leaf/leaf/fire/magicCyan) بازساخته شد؛ کلیدهای DPAL حفظ + **کلیدهای تازه `floorA/floorB`** (کف دوتُن ۵۲/۶۵ — قبلاً کف و کلاهک همرنگ بودند). **قوانین ΔL (هر ۴ تم ✓):** نمای دیوار(brick ۳۸)↔کف ۲۰ · کلاهک(stone ۷۸)↔کف ۲۰ · stoneHi ۹۲ لبهی روشن. **رنگهای یکتای تایلهای هر تم: ۱۹–۲۱ (≤۶۰ ✓)** با M5=۹۸٫۷٪ — صحنهی کامل ۱۲۳–۱۹۹ که سقفش موجودات (S1.5) و قهرمان ۸۳ رنگ (S1.6) است. **M5 دانجن صحنه: ۷۰٫۳→۷۵٫۷–۹۴٫۵٪** (تمهای گدازه/یخ پایینتر چون تورچ/گوهر بازیپلی روشناند). پراپها: ۱۳ رنگ هاردکد (شعله/آهن/سکه/جعبه/براقیت/گوهر/سکو/گوی محراب) → رمپ. **توجه:** کف تیرهتر (۸۸→۵۸) شد → M1 موقتاً افت کرد (کمینه ۹٫۶→۶٫۶؛ bat=۱۸٫۴) — طبق رودمپ در S1.5a/b با رمپدهی موجودات برمیگردد. run_all سبز.
 
 ## S1.5a — ۷ موب کلاسیک ← رمپ + خوانایی ☐
 **بخوان:** `art/monster_bodies.js` (MBODY_A…)، `art/monster_parts.js` (MC/لباس رنگ)، `art/monsters.js`، `monster.js` (STATS).

diff --git a/ROADMAP.md b/ROADMAP.md
@@ -66,7 +66,7 @@ MEMORY.md را بخوان. در ROADMAP.md اولین نشست ☐ را پیدا
 - [x] S1.1 `art/ramps.js` — رمپهای مواد با هیو-شیفت
 - [x] S1.2 پالت مستر + ابزار پالتچک (M5)
 - [x] S1.3 تایلهای مزرعه ← رمپ (E سازگار)
-- [ ] S1.4 دانجن: ۴ تم ← رمپ + کنتراست کف/دیوار
+- [x] S1.4 دانجن: ۴ تم ← رمپ + کنتراست کف/دیوار
 - [ ] S1.5a ۷ موب کلاسیک ← رمپ + خوانایی
 - [ ] S1.5b ۷ موب جدید + باس ← رمپ + خوانایی
 - [ ] S1.6 قهرمان: رفع میانگینگیری halfSprite + پالت ≤ ۲۸
